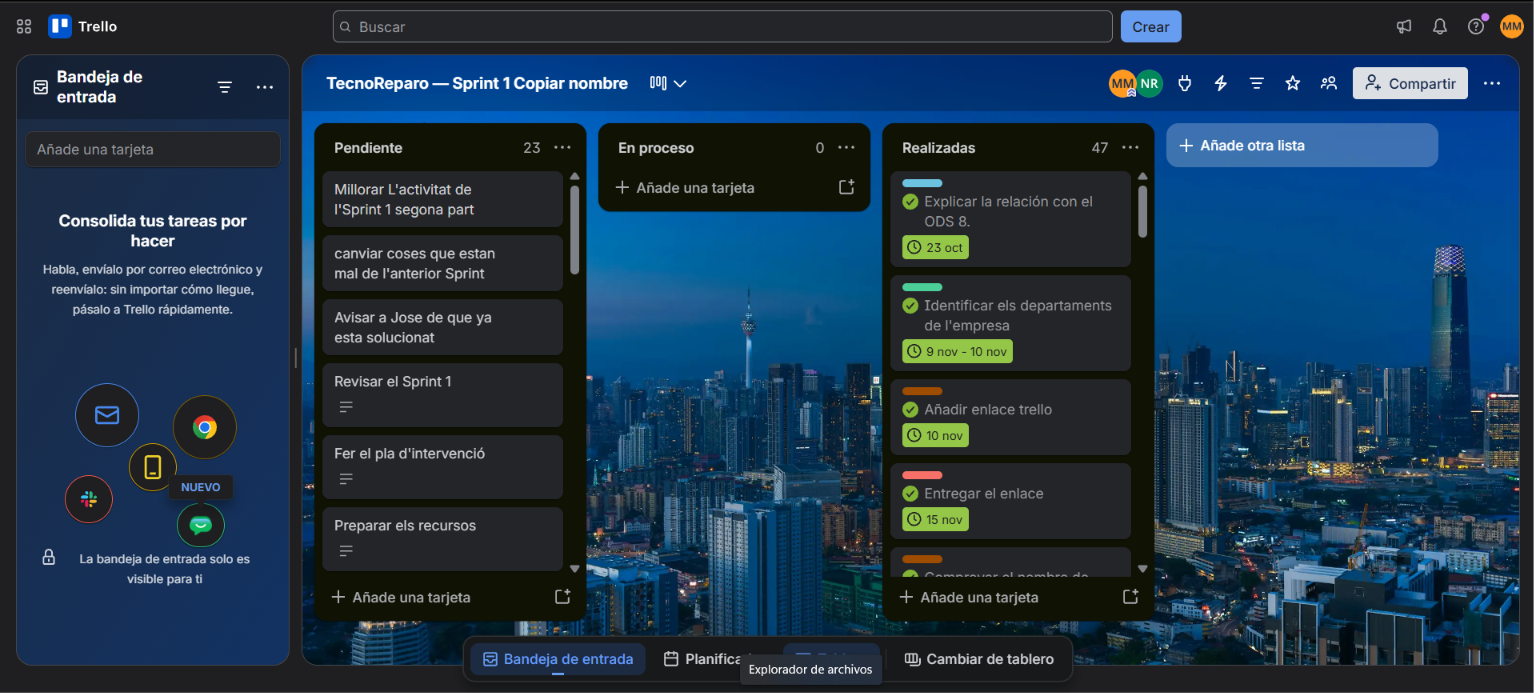
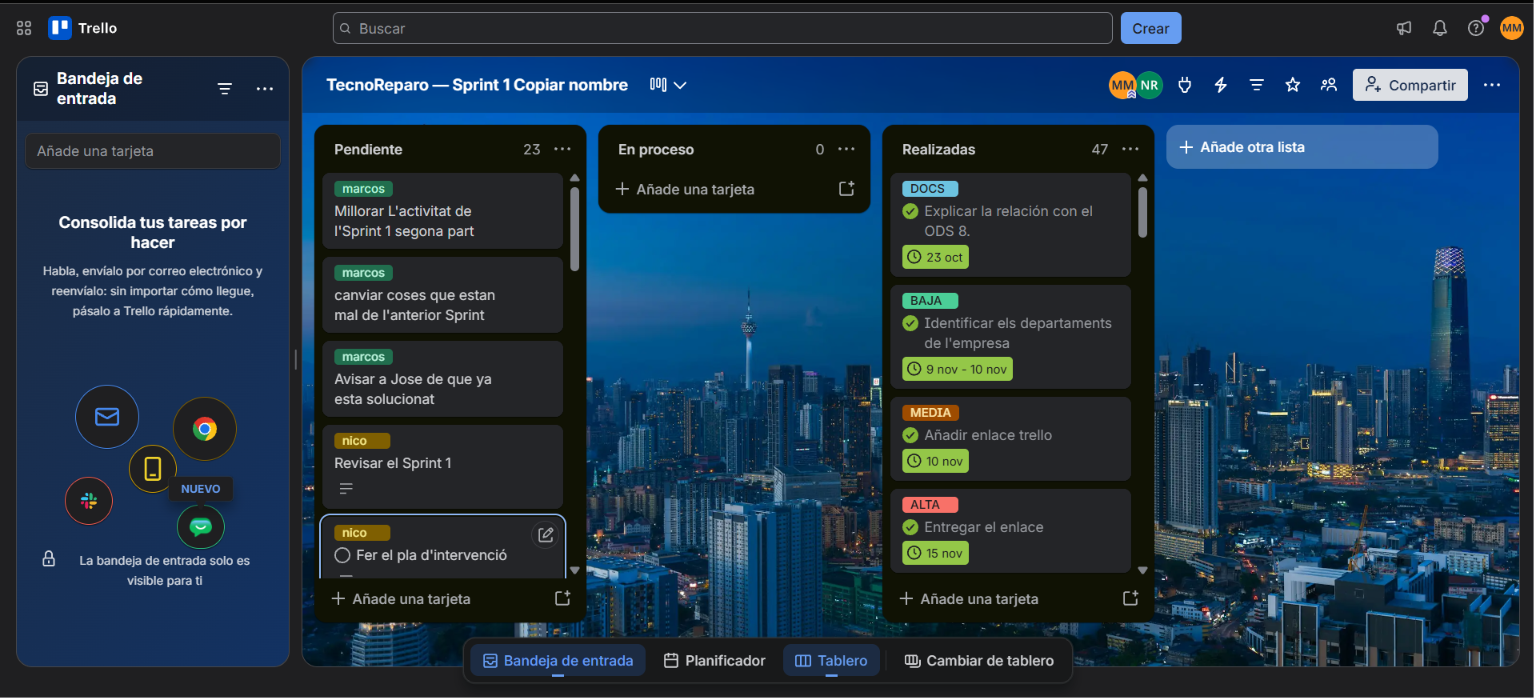
Nova captura de Trello amb responsables i taula actualitzada

diff --git a/docs/sprint-1/bloc-2/07-planificacio.md b/docs/sprint-1/bloc-2/07-planificacio.md
@@ -45,20 +45,19 @@ Scrum organitza el treball en períodes curts anomenats **sprints**. Ho apliquem
 
 ### Targetes que es veuen en la captura
 
-| Targeta | Llista | Part del projecte |
-|---|---|---|
-| Identificar els departaments de l'empresa | Finalitzat | Anàlisi |
-| Explicar la relació amb l'ODS 8 | Finalitzat | Documentació (Bloc 1) |
-| Afegir enllaç de Trello | Finalitzat | Documentació |
-| Entregar l'enllaç | Finalitzat | Documentació |
-| Revisar el Sprint 1 | Pendent | Anàlisi / Disseny |
-| Millorar l'activitat de l'Sprint 1 segona part | Pendent | Disseny |
-| Canviar coses que estan mal de l'anterior Sprint | Pendent | Disseny |
-| Avisar a Jose que ja està solucionat | Pendent | Documentació |
-| Fer el pla d'intervenció | Pendent | Implantació (Sprint 2) |
-| Preparar els recursos | Pendent | Implantació (Sprint 2) |
+| Targeta | Llista | Responsable / etiqueta | Part del projecte |
+|---|---|---|---|
+| Millorar l'activitat de l'Sprint 1 segona part | Pendent | Marcos | Disseny |
+| Canviar coses que estan mal de l'anterior Sprint | Pendent | Marcos | Disseny |
+| Avisar a Jose que ja està solucionat | Pendent | Marcos | Documentació |
+| Revisar el Sprint 1 | Pendent | Nico | Anàlisi / Disseny |
+| Fer el pla d'intervenció | Pendent | Nico | Implantació (Sprint 2) |
+| Explicar la relació amb l'ODS 8 | Finalitzat | DOCS | Documentació (Bloc 1) |
+| Identificar els departaments de l'empresa | Finalitzat | BAIXA | Anàlisi |
+| Afegir enllaç de Trello | Finalitzat | MITJANA | Documentació |
+| Entregar l'enllaç | Finalitzat | ALTA | Documentació |
 
-El responsable de cada targeta es veu en el tauler (avatar MM = Marcos, NR = Nicolas).
+Les targetes pendents porten una etiqueta amb el nom del responsable (*marcos* o *nico*). Les finalitzades porten l'etiqueta de prioritat (ALTA, MITJANA, BAIXA o DOCS).
 
 ## 7.4. Diferència entre parts del projecte i Trello
 
